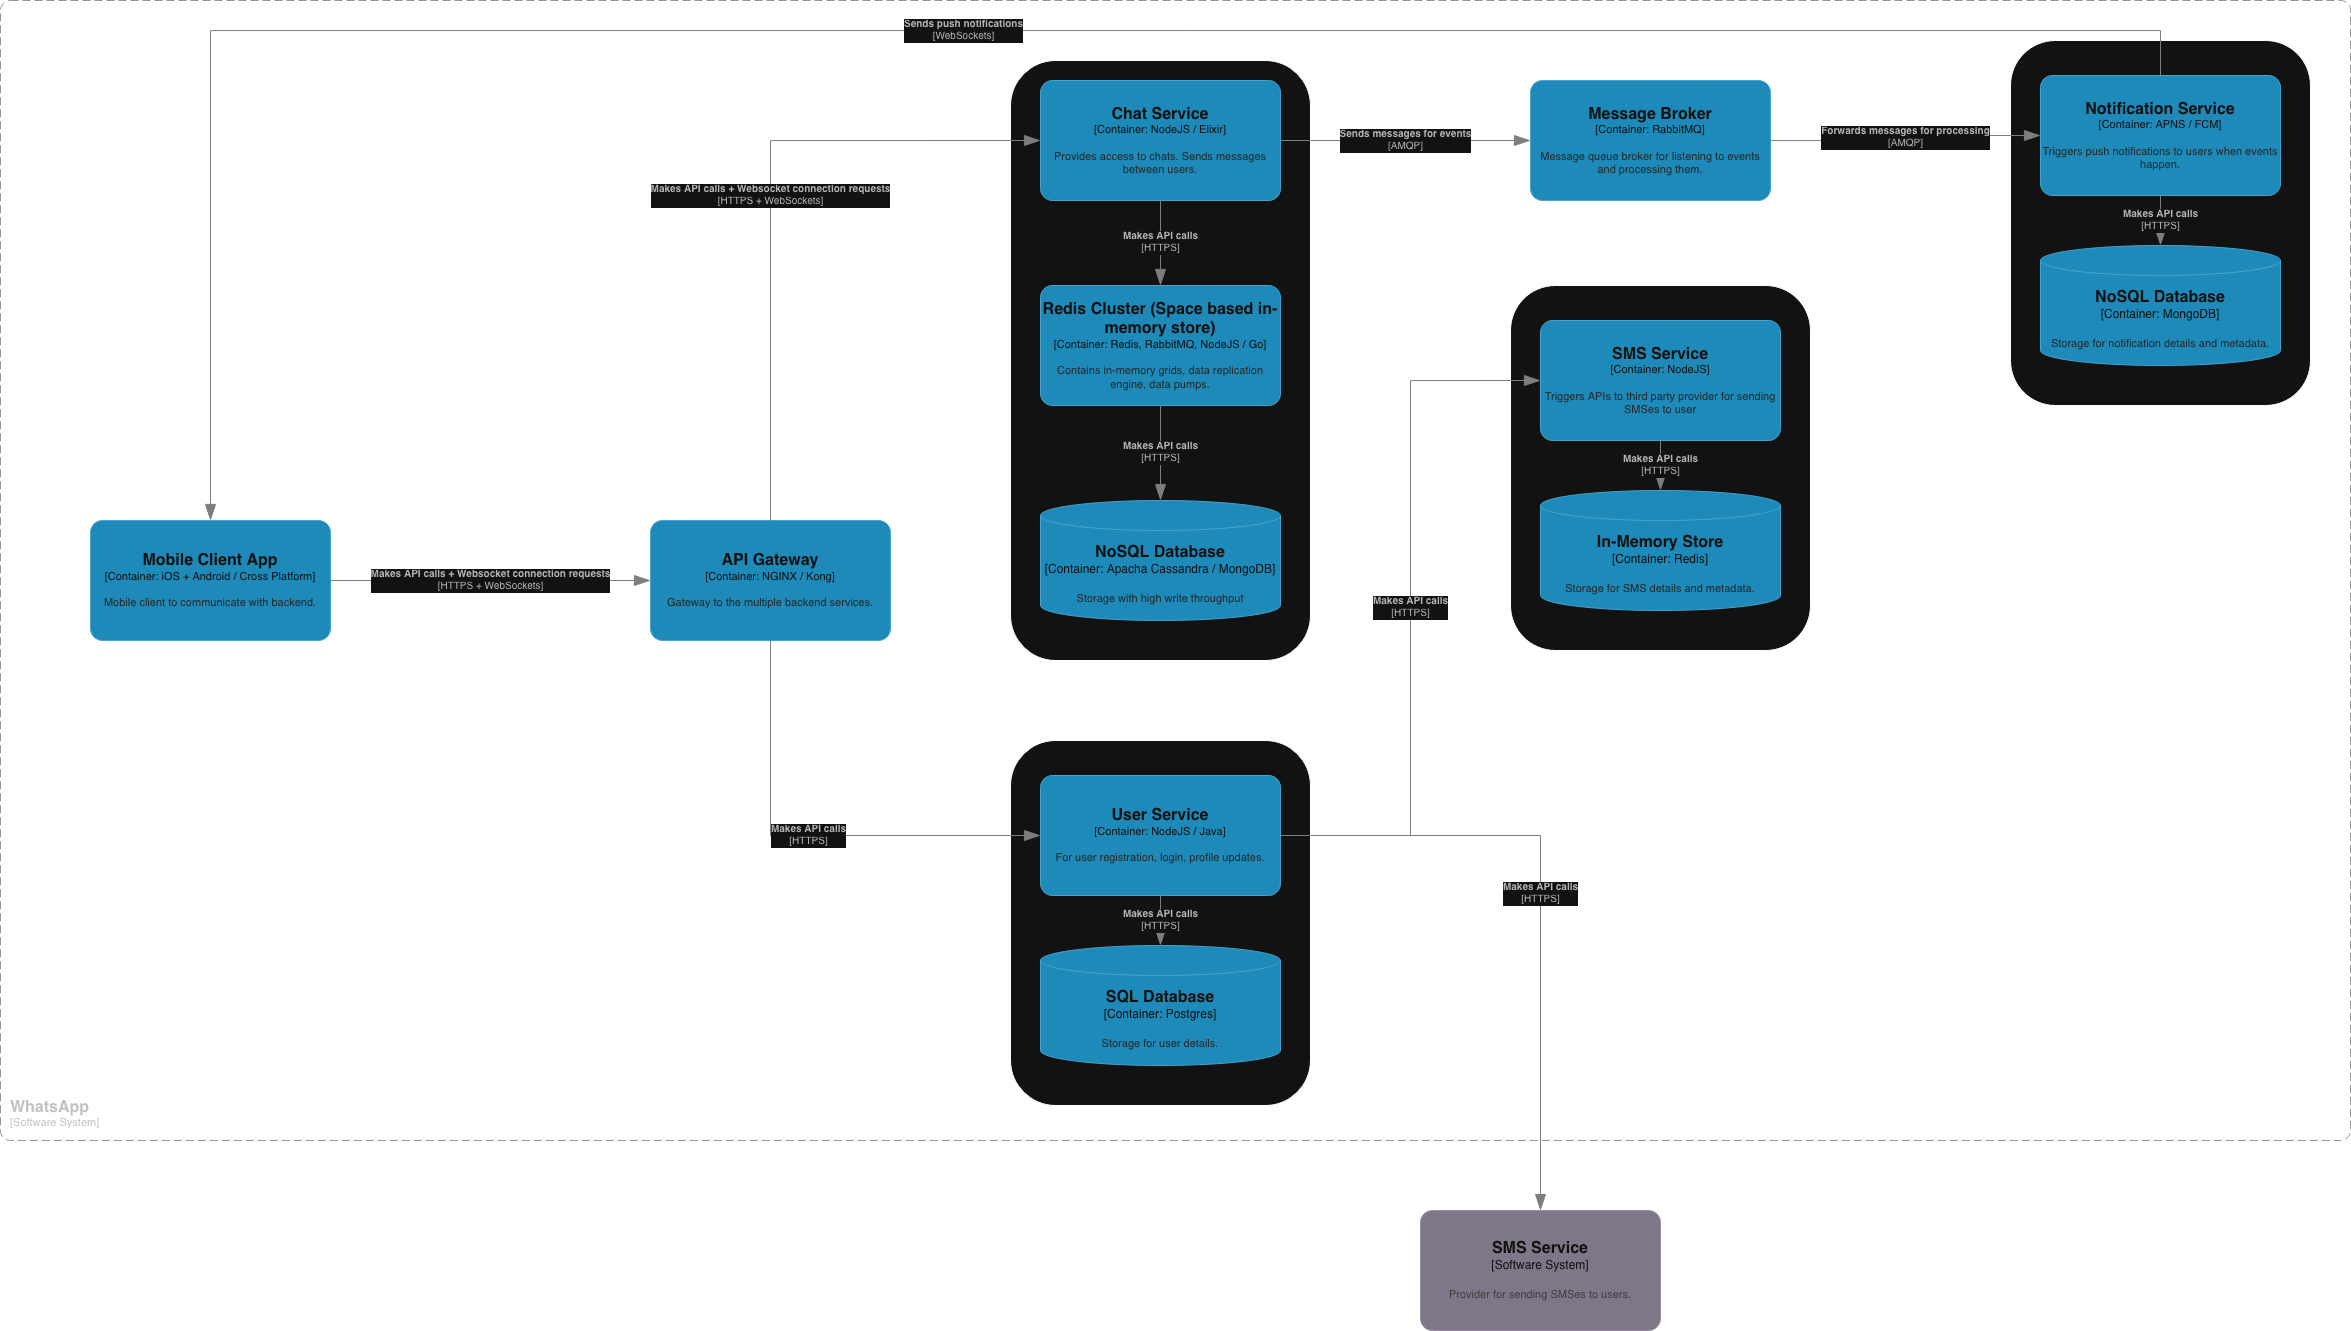
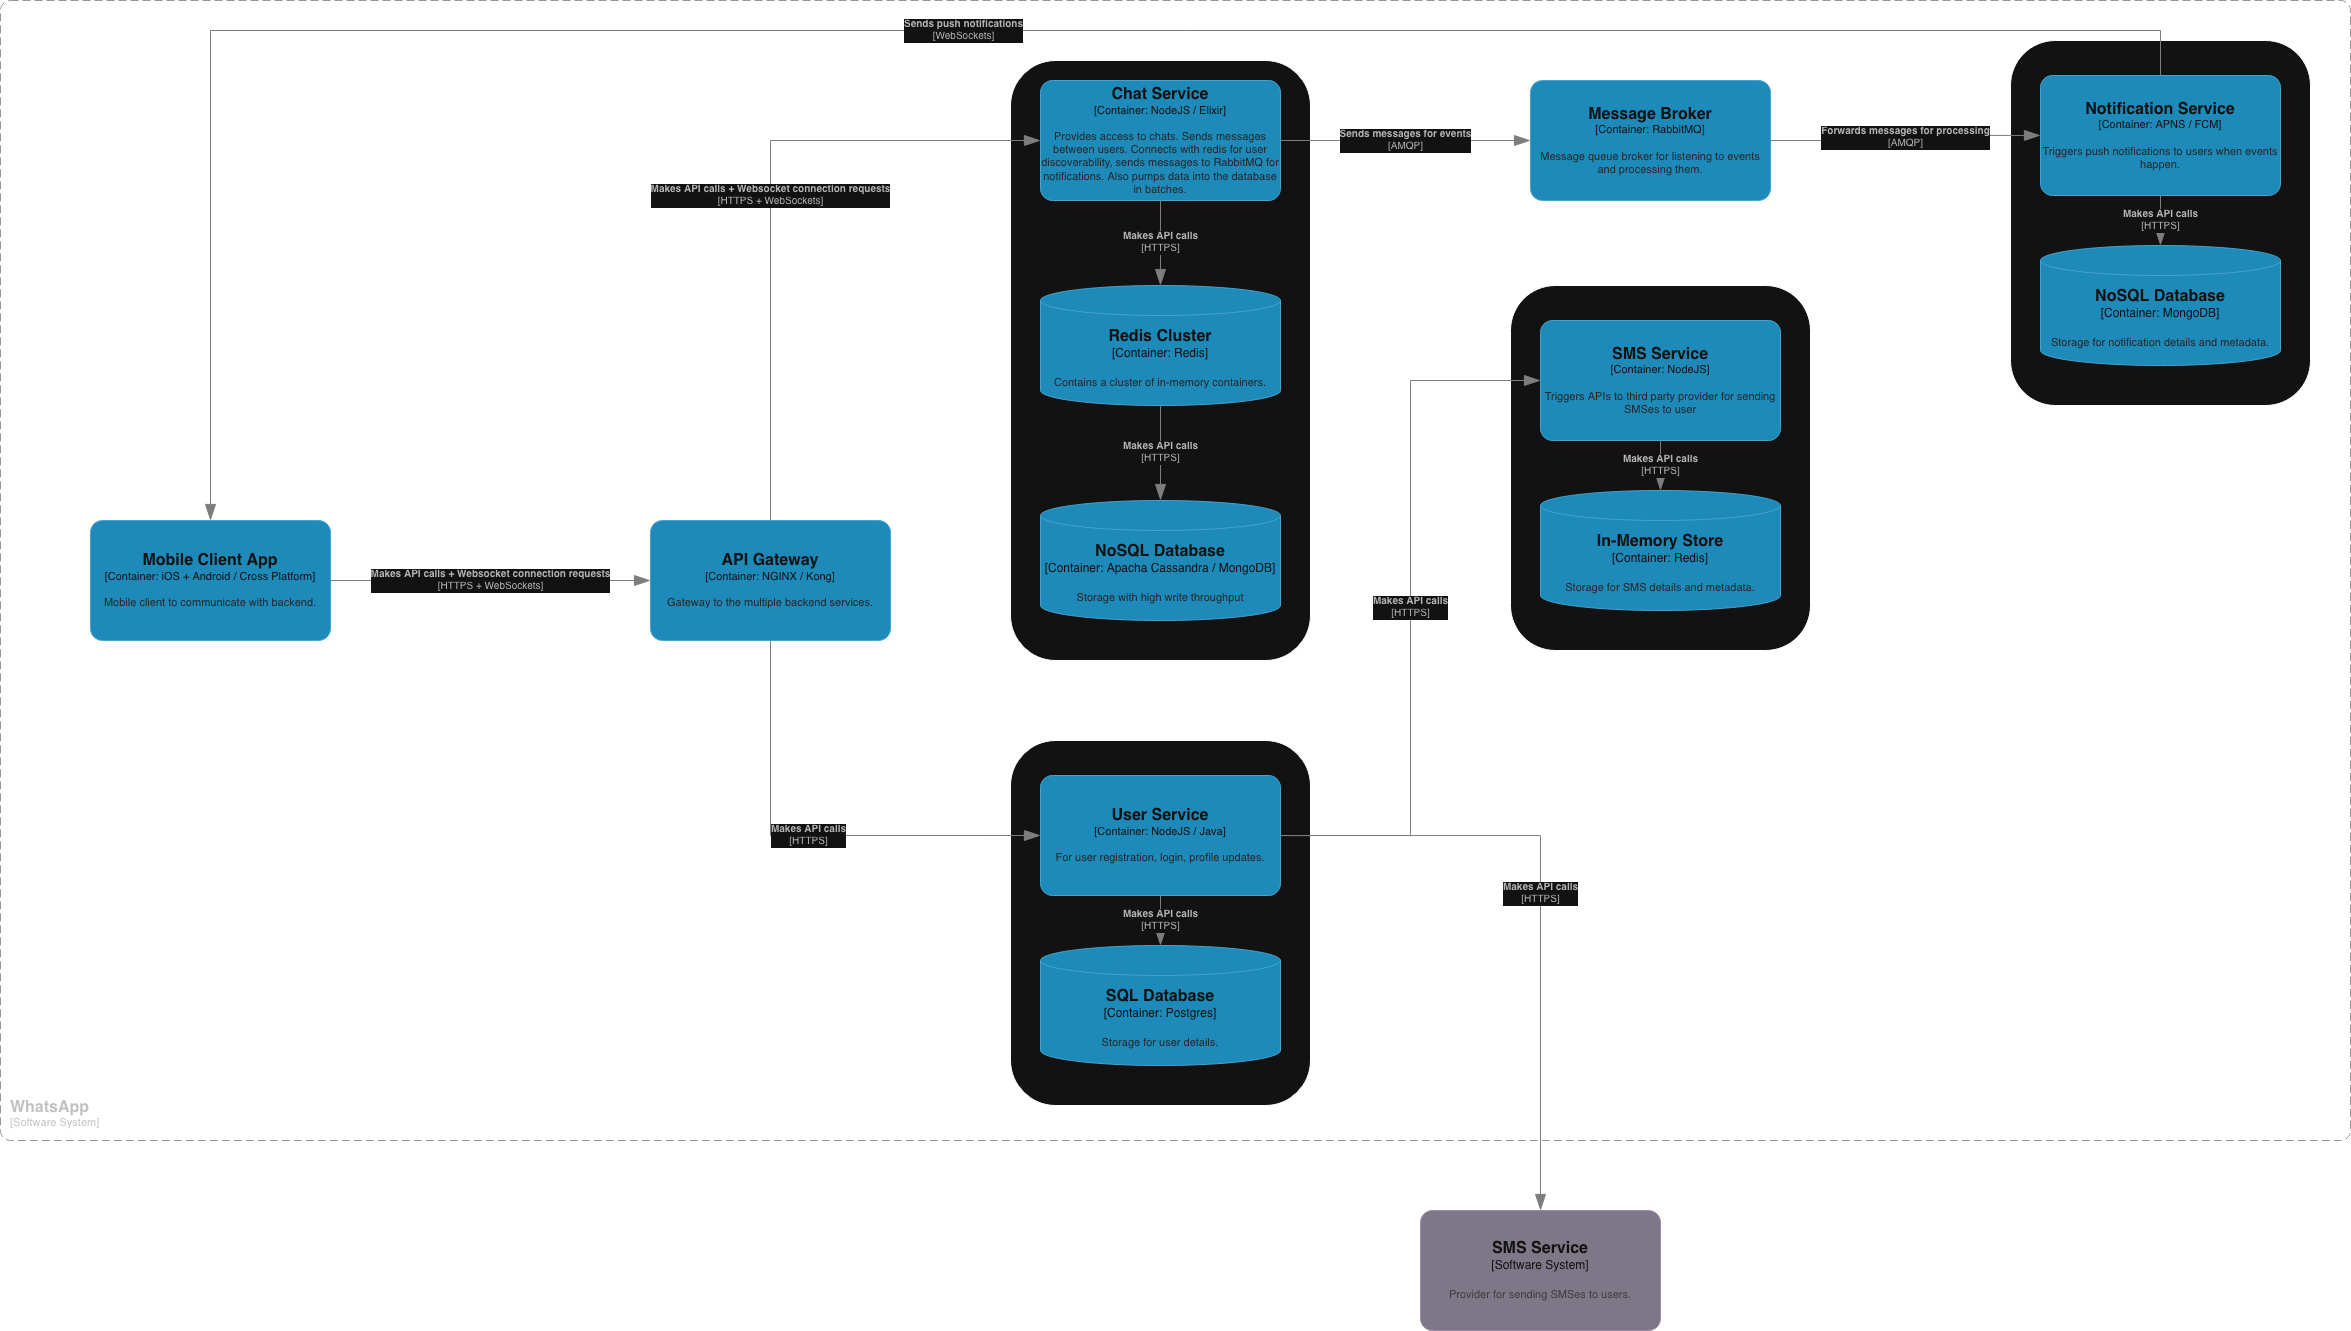
whatsapp - update c4 diagrams, add ADRs

diff --git a/designs/whatsapp/Architecture Decision Records/003 Architectural Style for Chat Quantum.md b/designs/whatsapp/Architecture Decision Records/003 Architectural Style for Chat Quantum.md
@@ -1,0 +1,43 @@
+ADR 003: Architectural Style for Chat Quantum (Real-time Engine)
+
+Status: Accepted
+
+1. Problem
+
+The "Chat Quantum" (the core real-time engine managing active socket connections) needs to handle 100M concurrent persistent connections. We need to decide how to structure the application logic to manage this stateful load efficiently.
+
+2.  Objectives
+
+    Connection Density: Maximize the number of concurrent sockets per node.
+
+    Resiliency: If a node dies, user reconnections should not storm the database.
+
+    Latency: Minimal hops between the user and the message delivery.
+
+3.  Alternatives
+
+    Option A: Standard Microservices (Stateless)
+
+        Description: stateless HTTP/WS servers that fetch state (user session, metadata) from Redis/DB for every single event.
+
+    Option B: Space-Based Architecture (Stateful / Actor Model)
+
+        Description: An architecture where the processing unit (Service) holds the state in-memory (RAM) and acts as the "Space" for that user, syncing to DB asynchronously. (e.g., Erlang/Elixir processes or Orleans Grains).
+
+4.  Consequences
+
+    Microservices (Stateless):
+
+        Pros: Easy to deploy and scale; standard pattern (Kubernetes friendly); simple to reason about (request/response).
+
+        Cons: "Chatty" internal traffic—every message triggers a network call to Redis to find "Who is this user?" and "Where is the recipient?"; High latency due to network hops; heavy load on the cache layer.
+
+    Space-Based (Stateful):
+
+        Pros: Data and processing are co-located (Data Locality). Processing a message is near-instant because the user's session is in RAM. Minimal internal network traffic; Database is only for persistence, not for operational reads.
+
+        Cons: Complex to manage (sticky sessions required); rebalancing nodes is hard; higher complexity in deployment and recovery.
+
+5.  Trade-offs (Decision)
+
+Decision: We will use Space-Based Architecture (Stateful/Actor-like). Rationale: For a chat system at 100M concurrent users, the network overhead of fetching session data from Redis for every packet is a massive bottleneck. By treating the Chat Service as a "Space" where the User's Session lives in memory (Stateful), we eliminate the internal network hop. We accept the operational complexity of sticky sessions (via Consistent Hashing on the Load Balancer) to gain the performance benefit of Data Locality. This mimics the architecture of Erlang-based systems like WhatsApp and Discord.

diff --git a/designs/whatsapp/Architecture Decision Records/002 NoSQL Store for Chat History.md b/designs/whatsapp/Architecture Decision Records/002 NoSQL Store for Chat History.md
@@ -1,0 +1,41 @@
+ADR 002: NoSQL Store for Chat History
+
+Status: Accepted
+
+1. Problem
+
+Having decided on NoSQL (ADR 001), we must select the specific technology. The access pattern is "Write Once, Read Many (Time-Series)". Users typically view the most recent messages. The system requires efficient implementation of the "Inbox" pattern (fetching a slice of messages for a specific conversation ID).
+
+2.  Objectives
+
+    Write Performance: Optimized for append-only logs.
+
+    Read Performance: Extremely fast lookups by ConversationID + Timestamp.
+
+    Operational Maturity: Proven track record at PB scale.
+
+    Multi-DC Replication: Native support for active-active or active-passive replication across regions.
+
+3.  Alternatives
+
+    Option A: MongoDB (Document Store)
+
+    Option B: Cassandra / ScyllaDB (Wide-Column Store)
+
+4.  Consequences
+
+    MongoDB:
+
+        Pros: Flexible JSON documents; intuitive query language; strong developer experience.
+
+        Cons: B-Tree indexes can become heavy on RAM with massive random writes; Global write locking (historically) or complex sharding at extreme scale compared to leaderless replication.
+
+    Cassandra:
+
+        Pros: LSM Tree storage engine is optimized specifically for write-heavy workloads; Leaderless architecture means zero downtime for writes; Linear scalability; Tunable consistency.
+
+        Cons: Rigid modeling (query-first design); No joins or flexible filtering; steeper learning curve.
+
+5.  Trade-offs (Decision)
+
+Decision: We will use Cassandra (or ScyllaDB). Rationale: The data model for chat is essentially a time-series log partitioned by ConversationID. This maps 1:1 with Cassandra's Partition Key (ConversationID) and Clustering Key (MessageID/Timestamp). MongoDB's document model is overkill and less efficient for simple log data. Cassandra's LSM trees provide superior write throughput for our specific "append-only" pattern, and its multi-datacenter replication is industry standard for high availability.

diff --git a/designs/whatsapp/Architecture Decision Records/001 Database Paradigm for Chat Service.md b/designs/whatsapp/Architecture Decision Records/001 Database Paradigm for Chat Service.md
@@ -1,0 +1,39 @@
+ADR 001: Database Paradigm for Chat Service
+
+Status: Accepted
+
+1. Problem
+
+The Chat Service must ingest and store incoming messages at a scale of 1 Million writes per second (1M QPS). We need a database paradigm that can handle massive write throughput while maintaining low latency for message retrieval. Traditional relational models may struggle with this volume of concurrent writes. 2. Objectives
+
+    Write Throughput: Must support >1M concurrent writes/sec.
+
+    Scalability: Must support horizontal scaling (sharding) without complex manual operations.
+
+    Availability: System must remain writable even if individual nodes fail (AP over CP preferred).
+
+    Schema Flexibility: Ability to evolve message metadata without locking tables.
+
+3.  Alternatives
+
+    Option A: SQL (Relational Database - e.g., PostgreSQL/MySQL)
+
+    Option B: NoSQL (Non-Relational Database - e.g., Cassandra/DynamoDB)
+
+4.  Consequences
+
+    SQL:
+
+        Pros: ACID compliance ensures strong consistency; rich query capabilities; mature tooling.
+
+        Cons: Scaling writes horizontally (sharding) is complex and operationally expensive at this scale; rigid schema requires downtime or heavy locks for migrations.
+
+    NoSQL:
+
+        Pros: Native horizontal partitioning (sharding) allows linear scaling of write throughput; flexible schema; optimized for high velocity data; often tunable consistency.
+
+        Cons: Eventual consistency can be tricky; limited query patterns (no complex joins).
+
+5.  Trade-offs (Decision)
+
+Decision: We will use NoSQL. Rationale: The primary bottleneck is Write Throughput. SQL databases typically hit a ceiling on write IOPS that requires complex sharding solutions (like Vitess) to bypass. NoSQL databases are designed from the ground up to distribute writes across a cluster. We are willing to trade ACID transactions and complex joins (which we don't need for simple message logs) in exchange for massive write scalability and high availability.

diff --git a/designs/whatsapp/design.md b/designs/whatsapp/design.md
@@ -75,4 +75,16 @@ whatsapp is a communicator app - it includes 1:1 messaging, group chats, 1:1 cal
 
 ![Diagram](./assets/c2.png)
 
-#
+# C3
+
+![Diagram](./assets/c3.png)
+
+# Capacity Planning | Back of the Envelope Estimation
+
+| Component          | Constraint               | Scaling Metric             | Est. Count      |
+| :----------------- | :----------------------- | :------------------------- | :-------------- |
+| **Chat Service**   | Concurrent Connections   | 100M Users / 20k per pod   | **~5,000 Pods** |
+| **User Service**   | CPU / Throughput         | 1M QPS / 1k per pod        | **~1,000 Pods** |
+| **Notif. Service** | I/O Wait (3rd Party API) | 200k Push/s / 2k per pod   | **~100 Pods**   |
+| **Cassandra**      | Write Speed (I/O)        | 1M Write/s / 10k per node  | **~100 Nodes**  |
+| **Redis**          | RAM (Memory)             | 100GB Data / 16GB per node | **~12 Nodes**   |
